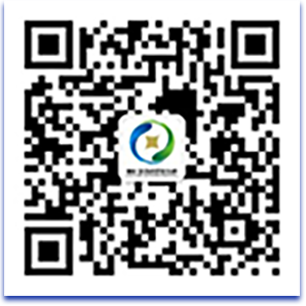
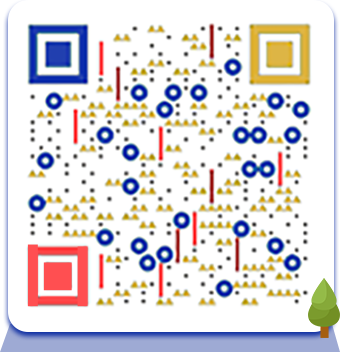
品武陵后台——王恩

diff --git a/ace/ace-fundtown/ace-fundtown-web/src/main/webapp/www/view/entering/js/entering.js b/ace/ace-fundtown/ace-fundtown-web/src/main/webapp/www/view/entering/js/entering.js
@@ -16,8 +16,9 @@ function initWeb() {
 
 function viewNodeList(datas) {
     $('#node_list').empty();
+    var temp = nodeTemplate1;
     for (var i = 0; i < datas.length; i++) {
-        var temp = nodeTemplate;
+
         var data = datas[i];
         temp = temp.replace('[sequence]', data.sequence)
             .replace('[curNodeName]', data.curNodeName);
@@ -26,6 +27,7 @@ function viewNodeList(datas) {
             linkUrl: data.linkUrl
         }
         $('#node_list').append($(temp).data(obj));
+        temp = nodeTemplate;
     }
 }
 
@@ -47,5 +49,13 @@ var nodeTemplate = '<li>' +
     '                <span class="num">0[sequence]</span>' +
     '                <span class="name">[curNodeName]</span>' +
     '            </div>' +
-    '            <div class="right">查看</div>' +
+    '            <div class="right yellow">查看</div>' +
+    '        </li>';
+
+var nodeTemplate1 = '<li>' +
+    '            <div class="left">' +
+    '                <span class="num">0[sequence]</span>' +
+    '                <span class="name">[curNodeName]</span>' +
+    '            </div>' +
+    '            <div class="right">申请</div>' +
     '        </li>';

diff --git a/ace/ace-fundtown/ace-fundtown-web/src/main/webapp/www/view/approved/js/one.js b/ace/ace-fundtown/ace-fundtown-web/src/main/webapp/www/view/approved/js/one.js
@@ -1,13 +1,13 @@
 $(function () {
     initweb();
     $('.top_card').on('click', '.btn', zhuce);
-
 })
 
 
 function zhuce() {
     window.location.href = '../service/form.html';
 }
+
 
 
 function initweb() {
@@ -24,12 +24,11 @@ function initweb() {
 }
 
 
-function viewFileList(data, className) {
+function viewFileList(data) {
     $('.fileList').empty();
     for (var i = 0; i < data.length; i++) {
         var p = fileTemplate;
-        p = p.replace('[resName]', data[i].resName)
-            .replace('[id]', data[i].id);
+        p = p.replace('[resName]', data[i].resName).replace('[id]', data[i].id);
         $('.fileList').append($(p));
     }
 }

diff --git a/ace/ace-fundtown/ace-fundtown-web/src/main/webapp/www/view/approved/js/commen.js b/ace/ace-fundtown/ace-fundtown-web/src/main/webapp/www/view/approved/js/commen.js
@@ -3,8 +3,14 @@ var status;
 $(function () {
     userInfo();
     initweb();
+    $('body').on('click', '.file_p', downloadFile);
 })
 
+function downloadFile() {
+    if (status != 2) {
+        alert("申请入驻成功才能下载。")
+    }
+}
 
 function userInfo() {
     var url = "/fundtown/www/process/getMyVipInfo";
@@ -42,5 +48,4 @@ function viewFileList(data, className) {
     }
 }
 
-
-var fileTemplate = '<p><a class="" href="/fundtown/www/download/file?id=[id]">[resName]</a></p>';
+var fileTemplate = '<p><a class="file_p" href="/fundtown/www/download/file?id=[id]">[resName]</a></p>';

diff --git a/ace/ace-fundtown/ace-fundtown-web/src/main/webapp/www/view/entering/css/entering.css b/ace/ace-fundtown/ace-fundtown-web/src/main/webapp/www/view/entering/css/entering.css
@@ -62,6 +62,10 @@ body {
     line-height: 1.2rem;
 }
 
+.btn_list li .yellow {
+    background-color: #DDB545 !important;
+}
+
 .footer {
     width: 100%;
     height: 3.12rem;
@@ -77,11 +81,15 @@ body {
 }
 
 .footer .code {
-    height: 2.04rem;
-    width: 2.04rem;
-    background: url(../image/code.png) no-repeat;
+    width: 2.266666rem;
+    height: 2.346666rem;
     background-size: 100% 100%;
     margin-right: 0.333333rem;
+}
+
+.footer .code img {
+    width: 100%;
+    height: 100%;
 }
 
 .footer .info {

diff --git a/ace/ace-fundtown/ace-fundtown-web/src/main/webapp/www/view/approved/step_one.html b/ace/ace-fundtown/ace-fundtown-web/src/main/webapp/www/view/approved/step_one.html
@@ -23,7 +23,7 @@
         </div>
     </div>
     <div class="step step3">
-        填写后，发送至2435702664@qq.com
+        填写后，发送至<a href="mailto:2435702664@qq.com">2435702664@qq.com</a>
     </div>
     <div class="step step4 stepEnd">
         我们的工作人员将于<span class="text_red">1个工作日</span>内给您审核，通过后进行后续流程的操作以及文件下载。

diff --git a/ace/ace-fundtown/ace-fundtown-web/src/main/webapp/www/view/approved/css/application.css b/ace/ace-fundtown/ace-fundtown-web/src/main/webapp/www/view/approved/css/application.css
@@ -6,12 +6,13 @@ body {
 .top_card {
     font-size: 0.373333rem;
     line-height: 0.6rem;
-    width: 10rem;
-    margin-top: 0.426666rem;
+    width: 100vw;
+    margin: 0.426666rem auto 0;
     height: 12.333333rem;
     background: url(../image/card3.png);
     background-size: 100% 100%;
     padding: 1.466666rem 0.933333rem 0;
+
 }
 
 .top_card .btn {

diff --git a/ace/ace-fundtown/ace-fundtown-web/src/main/webapp/www/view/approved/css/approved.css b/ace/ace-fundtown/ace-fundtown-web/src/main/webapp/www/view/approved/css/approved.css
@@ -94,12 +94,11 @@ body {
 }
 
 .file_list:before {
-    color: #3283F9;
     position: absolute;
     left: 0;
 }
 
 .bottom_text .margin {
-    margin-bottom: 0.533333rem;
+    margin-bottom: 0.3rem;
 }
 

diff --git a/ace/ace-fundtown/ace-fundtown-web/src/main/webapp/www/view/entering/entering.html b/ace/ace-fundtown/ace-fundtown-web/src/main/webapp/www/view/entering/entering.html
@@ -70,7 +70,7 @@
 </div>
 <div class="footer">
     <div class="code">
-
+        <img src="image/code.png">
     </div>
     <div class="info">
         <p>关注微信公众号</p>

diff --git a/ace/ace-fundtown/ace-fundtown-web/src/main/webapp/www/view/service/css/service.css b/ace/ace-fundtown/ace-fundtown-web/src/main/webapp/www/view/service/css/service.css
@@ -17,7 +17,7 @@
 
 .content .head .img img {
     height: 100%;
-    width: auto;
+    width: 100%;
 }
 
 .content .head .text {
